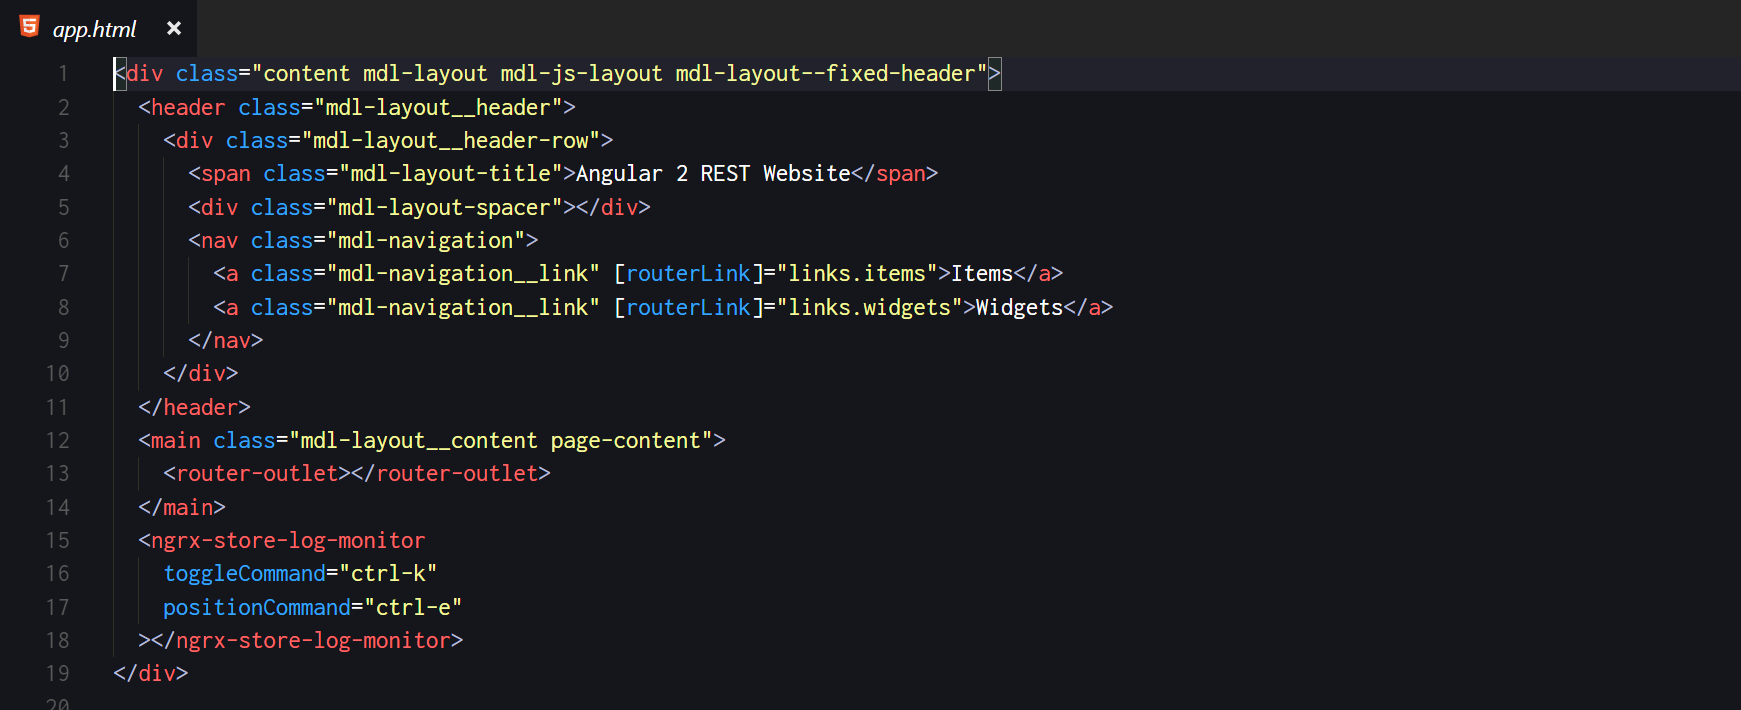
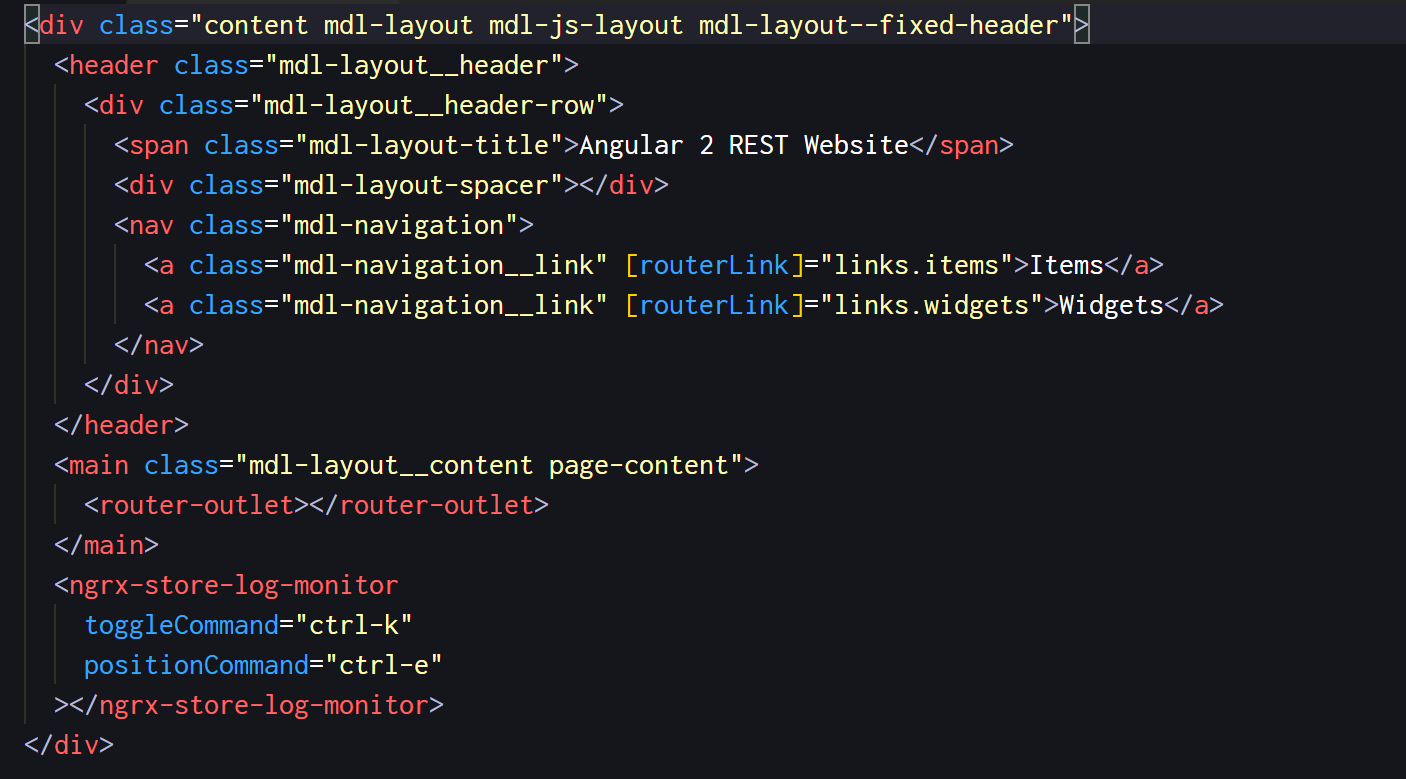
Tweaked the string color and updated screenshots

Changed region(s): [[0.0, 0.0, 0.8869, 0.8676], [0.0, 0.8986, 0.3058, 1.0], [0.0306, 0.1549, 0.0612, 0.4648]]

diff --git a/CHANGELOG.md b/CHANGELOG.md
@@ -19,4 +19,4 @@ Check [Keep a Changelog](http://keepachangelog.com/) for recommendations on how 
 
 ## [1.0.3] - 2017-10-26
 ### Modified
-- Replaced the yellows with reds and blues
+- Tweaked some colors
